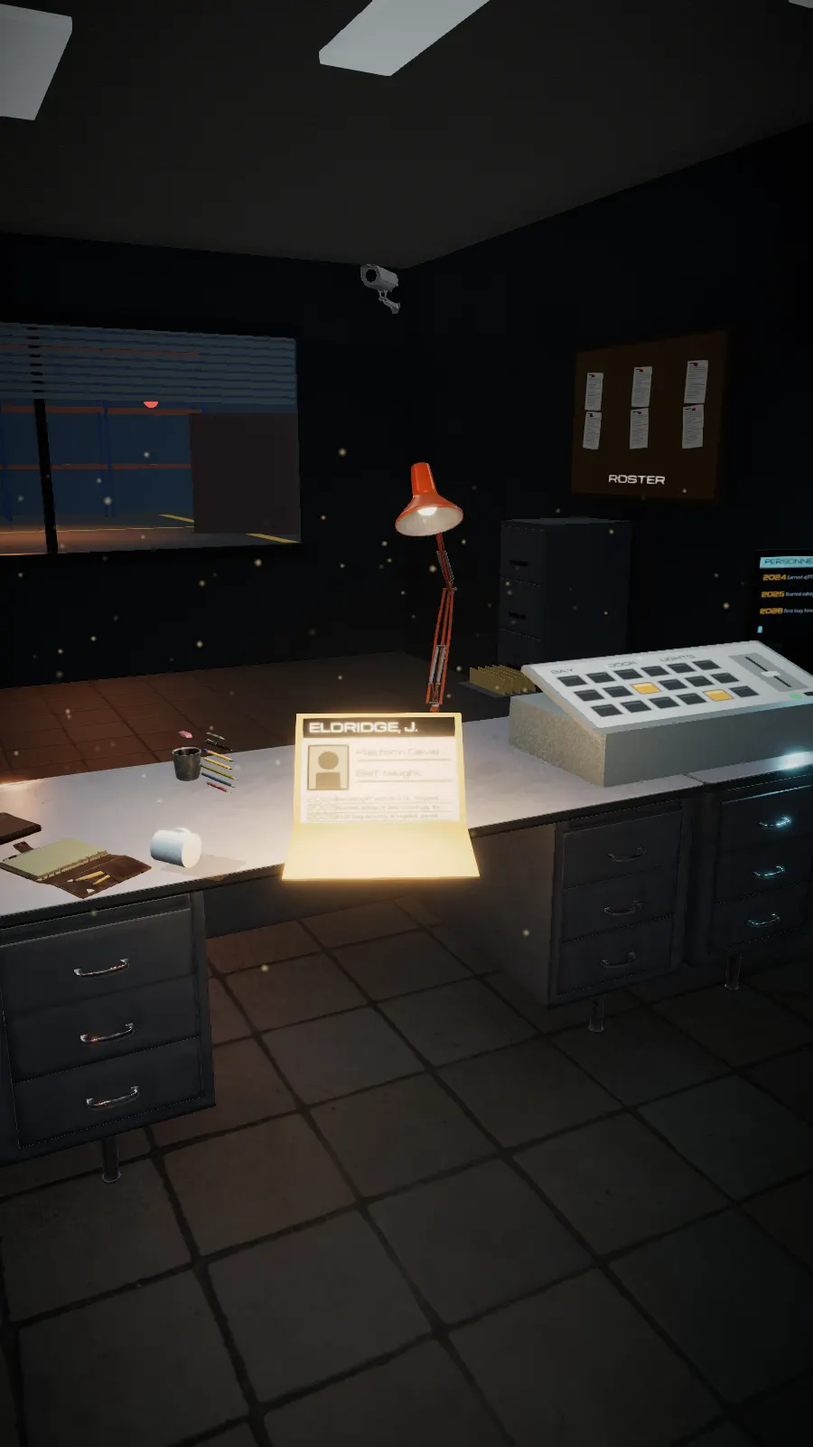
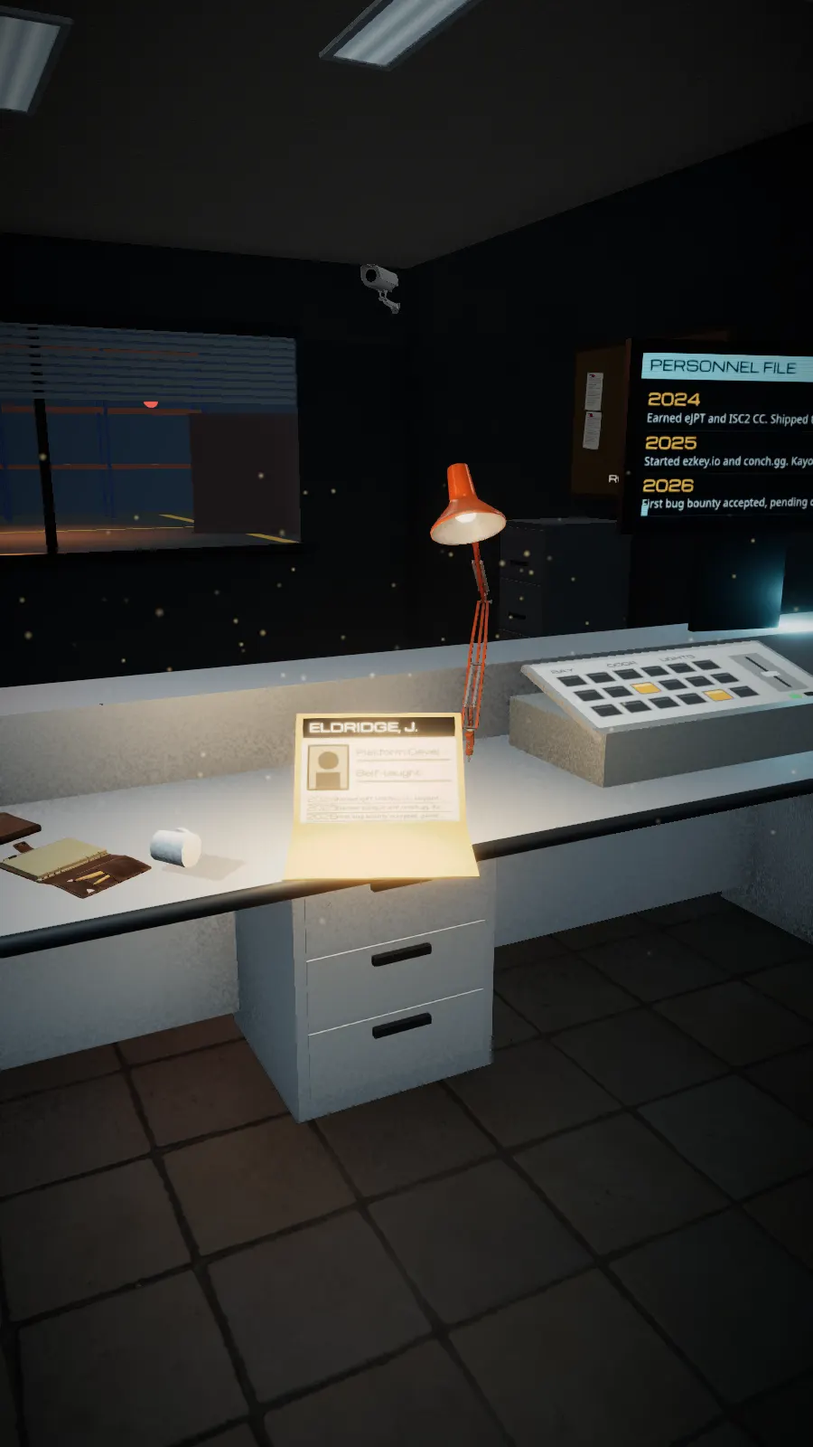
Pan the camera to the arcade row, and cut the board back to one number
The break room row is square to the wall on the exact piece of it the
camera parks in front of, with the kitchen moved along to the east end and
the drinks machines past it. The hold turns south to look straight at the
four cabinets rather than reading them side on, they stand against a dark
panel so a blue machine is not a blue machine on a blue wall, and a long
marquee name is condensed and then sized down until it fits, because
condensing alone still ran character bot off its own plate.

The shift board carries the count and the twelve weeks and nothing else.
The header is set to fit the plate instead of running off the end of it.

The clean room's theatre lamp hangs at the far end of the lab where it is a
lit table at the end of the room rather than a light in the eye, the drip
stand stands beside a trolley instead of out on the floor, and the two
Cisco plates hang on opposite sides at different depths.

Stills re-rendered for the lite path.

diff --git a/src/scenes/walk/stages/recreation/dressing.ts b/src/scenes/walk/stages/recreation/dressing.ts
@@ -6,7 +6,7 @@ import { arcadeCabinet, crtBracket, fridge, kitchenette, locker, poster, splashb
 import { battens } from '../../labs/fixtures';
 import { signBox } from '../../labs/signage';
 import { screenFace } from '../../labs/textures';
-import { Z0, Z1, CABINETS, CABINET_Z, ACCENT, HALL_FACE, FITTINGS } from './layout';
+import { Z0, Z1, CABINETS, CABINET_Z, ACCENT, HALL_FACE, FITTINGS, ROW_PANEL } from './layout';
 
 export interface Dressing { hotspots: Hotspot[]; header: THREE.MeshStandardMaterial }
 
@@ -39,35 +39,42 @@ export async function buildDressing(ctx: StageContext, root: THREE.Group): Promi
   // the same four positions `lighting.ts` puts its spots. One instanced pair for all four.
   await add(battens({ len: 1.6, drop: 0.08, intensity: 1.45 }, FITTINGS.map(([x, z]) => [x, 3.1, z])));
 
-  // ---- South wall, east to west: the kitchen ----------------------------------------------------
-  // Half a metre of counter end between the fridge and the units, because butted against them the
-  // two read as one white mass with a seam through it on the approach.
-  await add(place(fridge(), -25.45, 0, Z0 + 0.37));
-  await add(place(kitchenette(3.2), -28.0, 0, Z0 + 0.33));
-  await add(place(splashback(3.2, 0.62), -28.0, 1.19, Z0 + 0.05));
-  await add(once(prop('microwave'), -27.2, 0.905, Z0 + 0.33, 0.15));
-  await add(once(prop('kettle'), -29.4, 0.905, Z0 + 0.28, -0.4));
-  await add(once(prop('tea_set'), -29.0, 0.905, Z0 + 0.24, 0.9));
-  await add(place(poster('WASH YOUR HANDS', 0.44, 0.62, 5), -29.3, 1.6, Z0 + 0.06));
+  // ---- South wall, the east end: the kitchen ----------------------------------------------------
+  // The whole kitchen moved four metres east, to the first stretch of wall past the door, because
+  // the arcade row now takes the piece of wall the camera parks in front of. Walking in, the
+  // servery goes by on the right and the row is straight ahead.
+  await add(place(fridge(), -21.7, 0, Z0 + 0.37));
+  await add(place(kitchenette(3.2), -24.2, 0, Z0 + 0.33));
+  await add(place(splashback(3.2, 0.62), -24.2, 1.19, Z0 + 0.05));
+  await add(once(prop('microwave'), -23.4, 0.905, Z0 + 0.33, 0.15));
+  await add(once(prop('kettle'), -25.6, 0.905, Z0 + 0.28, -0.4));
+  await add(once(prop('tea_set'), -25.2, 0.905, Z0 + 0.24, 0.9));
+  await add(place(poster('WASH YOUR HANDS', 0.44, 0.62, 5), -25.5, 1.6, Z0 + 0.06));
   // The clock hangs over the counter, not on the far wall: it is the one thing that fills the bare
   // metre of wall between the cupboards and the ceiling on the side of the frame the copy leaves.
-  await add(once(prop('wall_clock'), -26.75, 2.3, Z0 + 0.07));
+  await add(once(prop('wall_clock'), -22.9, 2.3, Z0 + 0.07));
 
   // ---- South wall, the middle: the row the room is about ----------------------------------------
-  // The four cabinets stand nearest the hold, under their own batten and their own sign, and the
-  // drinks machines moved behind them. This is the whole of Jordan's note on the room: the machines
-  // were the big lit pair in the foreground and the projects were four small shapes behind them.
+  // The four cabinets stand square on the piece of wall the camera parks in front of, under their
+  // own batten and their own sign. The dark panel behind them is what gives a blue machine an edge
+  // against a blue dado, which was the note "blue blends into wall", and it reads as the painted
+  // back of a machine bay.
+  const panel = new THREE.Mesh(new THREE.BoxGeometry(ROW_PANEL.w, ROW_PANEL.h, 0.06), new THREE.MeshStandardMaterial({ color: 0x272e35, roughness: 0.85 }));
+  panel.position.set(ROW_PANEL.x, ROW_PANEL.h / 2, Z0 + 0.05); await add(panel);
+  const rail = new THREE.Mesh(new THREE.BoxGeometry(ROW_PANEL.w + 0.08, 0.05, 0.1), new THREE.MeshStandardMaterial({ color: 0x8e99a1, roughness: 0.45, metalness: 0.4 }));
+  rail.position.set(ROW_PANEL.x, ROW_PANEL.h + 0.02, Z0 + 0.07); await add(rail);
+
   const hotspots: Hotspot[] = [];
   for (const [key, title, x, accent, ry] of CABINETS) {
     const cabinet = place(arcadeCabinet({ title, accent, seed: x * -7 }), x, 0, CABINET_Z, ry);
     await add(cabinet);
     hotspots.push({ id: key, kind: 'project', label: title, object: cabinet, stop: 'recreation' });
-    if (key === 'torn-bet') anchors.set('torn-bet', new THREE.Vector3(-30.7, 2.15, Z0 + 1.0));
+    if (key === 'torn-bet') anchors.set('torn-bet', new THREE.Vector3(-26.66, 2.15, Z0 + 1.0));
   }
   // The sign over the row, on the wall above the marquees. A lit box at the head of an aisle is how
   // a building this size tells you what a corner of a room is for, and it is what makes the row the
   // thing you look at on the way in rather than the machines.
-  await add(place(signBox('ARCADE', { w: 1.7, h: 0.42, accent: 0x3d7be0, on: true, code: 'BREAK ROOM' }), -32.1, 2.32, Z0 + 0.1));
+  await add(place(signBox('ARCADE', { w: 1.7, h: 0.42, accent: 0x3d7be0, on: true, code: 'BREAK ROOM' }), -28.1, 2.28, Z0 + 0.13));
 
   // ---- South wall, west of the row: the drinks ---------------------------------------------------
   // The lit machine and its dead twin, past the cabinets, where they are the backdrop the row stands
@@ -75,12 +82,12 @@ export async function buildDressing(ctx: StageContext, root: THREE.Group): Promi
   const machine = vendingMachine({ accent: ACCENT, lit: true, seed: 11 });
   const header = machine.getObjectByName('header') as THREE.Mesh;
   const litHeader = header.material as THREE.MeshStandardMaterial;
-  await add(place(machine, -34.95, 0, Z0 + 0.42));
-  await add(place(vendingMachine({ accent: ACCENT, lit: false, seed: 5 }), -36.0, 0, Z0 + 0.42));
+  await add(place(machine, -30.95, 0, Z0 + 0.42));
+  await add(place(vendingMachine({ accent: ACCENT, lit: false, seed: 5 }), -32.0, 0, Z0 + 0.42));
 
   // The copy panel hangs east of the row, over the counter end, so it never covers the four cabinets
   // it is describing.
-  anchors.set('recreation', new THREE.Vector3(-27.4, 2.0, -33.6));
+  anchors.set('recreation', new THREE.Vector3(-25.4, 2.0, -33.9));
 
   // ---- North wall: the quiet side ---------------------------------------------------------------
   await add(place(statusBoard(prop('tv')), -29.6, 2.05, Z1 - 0.02, Math.PI));

diff --git a/src/scenes/walk/stages/fabrication/streak.ts b/src/scenes/walk/stages/fabrication/streak.ts
@@ -13,10 +13,11 @@ import streak from '../../../../content/streak.json';
  * public contribution calendar before every deploy. A day behind is fine. A build that fails because
  * github.com was slow is not, so the script keeps the last snapshot on any error.
  *
- * The count is the headline and the twelve week grid under it is the working. GitHub's own calendar
+ * The count is the headline and the twelve week grid beside it is the working. GitHub's own calendar
  * is a year of grey green squares that says nothing at a glance, which was the whole complaint, so
  * this one is a run of weeks in the building's own blues with the streak set eight times larger than
- * anything else on the board.
+ * anything else on the board. Nothing else goes on it: a longest run and a year total stood there
+ * for one build and both were cut.
  */
 
 const W = 1024, H = 620;
@@ -48,50 +49,40 @@ function draw(glow: boolean): THREE.CanvasTexture {
     for (let i = 0; i < 22; i++) ctx.fillRect(0, 150 + r() * 320, W, 1 + r() * 3);
   }
 
-  // The header band.
+  // The header band. Set to fit the board rather than to a fixed size: at 40 px the line ran off the
+  // end of the plate and the board said "DAYS WITHOUT A MISSED COMMI".
   if (!glow) {
     ctx.fillStyle = '#1f4f96'; ctx.fillRect(0, 0, W, 96);
     ctx.fillStyle = '#ffffff'; ctx.textBaseline = 'middle'; ctx.textAlign = 'left';
-    ctx.font = '600 40px Michroma, system-ui, sans-serif';
-    ctx.fillText('DAYS WITHOUT A MISSED COMMIT', 34, 52);
+    const title = 'DAYS WITHOUT A MISSED COMMIT';
+    let px = 42;
+    do { ctx.font = `600 ${px}px Michroma, system-ui, sans-serif`; px -= 1; } while (ctx.measureText(title).width > W - 68 && px > 18);
+    ctx.fillText(title, 34, 52);
   }
 
-  // The count, in a dark inset with a tile per digit, the way a flip board carries one.
-  const x0 = 34, y0 = 140, tw = 132, th = 210, gap = 14;
+  // The count, in a dark inset with a tile per digit, the way a flip board carries one. It is the
+  // only figure on the board. A longest run and a year total stood beside it for one build and
+  // Jordan cut both: the board answers one question.
+  const x0 = 40, y0 = 152, tw = 150, th = 244, gap = 16;
   digits.split('').forEach((d, i) => {
     const x = x0 + i * (tw + gap);
     if (!glow) {
       ctx.fillStyle = '#10171e'; ctx.fillRect(x, y0, tw, th);
       ctx.fillStyle = 'rgba(255,255,255,0.06)'; ctx.fillRect(x, y0 + th / 2 - 1, tw, 2);
     }
-    ctx.fillStyle = glow ? AMBER : AMBER;
+    ctx.fillStyle = AMBER;
     ctx.textAlign = 'center'; ctx.textBaseline = 'middle';
-    ctx.font = '600 150px Michroma, system-ui, sans-serif';
-    ctx.fillText(d, x + tw / 2, y0 + th / 2 + 6);
+    ctx.font = '600 172px Michroma, system-ui, sans-serif';
+    ctx.fillText(d, x + tw / 2, y0 + th / 2 + 8);
   });
   if (!glow) {
     ctx.textAlign = 'left'; ctx.fillStyle = INK;
-    ctx.font = '600 26px Michroma, system-ui, sans-serif';
-    ctx.fillText('CURRENT RUN', x0, y0 + th + 36);
+    ctx.font = '600 28px Michroma, system-ui, sans-serif';
+    ctx.fillText('CURRENT RUN', x0, y0 + th + 40);
   }
 
-  // The two standing figures, and the grid of the last twelve weeks under them.
-  const rx = 520;
-  if (!glow) {
-    ctx.textAlign = 'left'; ctx.textBaseline = 'middle';
-    const row = (label: string, value: string, y: number) => {
-      ctx.fillStyle = '#5b6770'; ctx.font = '600 21px Michroma, system-ui, sans-serif';
-      ctx.fillText(label, rx, y);
-      ctx.fillStyle = INK; ctx.font = '600 38px Michroma, system-ui, sans-serif';
-      ctx.textAlign = 'right'; ctx.fillText(value, W - 34, y);
-      ctx.textAlign = 'left';
-      ctx.fillStyle = 'rgba(27,37,48,0.18)'; ctx.fillRect(rx, y + 32, W - 34 - rx, 2);
-    };
-    row('LONGEST RUN', String(streak.longest), 150);
-    row('THIS YEAR', streak.yearTotal.toLocaleString('en-GB'), 236);
-  }
-
-  const cell = 26, pitch = 32, gx = rx, gy = 300;
+  // The working: the last twelve weeks, one cell a day, a column a week.
+  const gx = 566, gy = 152, pitch = 36, cell = 30;
   const levels = String(streak.recent);
   for (let col = 0; col < 12; col++) {
     for (let rowN = 0; rowN < 7; rowN++) {
@@ -99,8 +90,7 @@ function draw(glow: boolean): THREE.CanvasTexture {
       const x = gx + col * pitch, y = gy + rowN * pitch;
       if (glow) {
         if (level === 0) continue;
-        const k = 0.18 + level * 0.2;
-        ctx.fillStyle = `rgba(120,170,235,${k.toFixed(2)})`;
+        ctx.fillStyle = `rgba(120,170,235,${(0.18 + level * 0.2).toFixed(2)})`;
       } else {
         ctx.fillStyle = LEVELS[Math.min(4, level)]!;
       }
@@ -108,8 +98,8 @@ function draw(glow: boolean): THREE.CanvasTexture {
     }
   }
   if (!glow) {
-    ctx.fillStyle = '#5b6770'; ctx.font = '600 22px Michroma, system-ui, sans-serif';
-    ctx.textAlign = 'left'; ctx.fillText('LAST TWELVE WEEKS', gx, gy + 7 * pitch + 22);
+    ctx.fillStyle = '#5b6770'; ctx.font = '600 24px Michroma, system-ui, sans-serif';
+    ctx.textAlign = 'left'; ctx.fillText('LAST TWELVE WEEKS', gx, gy + 7 * pitch + 26);
     ctx.fillStyle = 'rgba(27,37,48,0.55)'; ctx.font = '600 20px Michroma, system-ui, sans-serif';
     ctx.fillText(`READ ${streak.generated}`, x0, H - 34);
     ctx.textAlign = 'right'; ctx.fillText(`GITHUB.COM/${String(streak.login).toUpperCase()}`, W - 34, H - 34);

diff --git a/src/scenes/walk/stages/credentials/dressing.ts b/src/scenes/walk/stages/credentials/dressing.ts
@@ -222,12 +222,12 @@ function theatreLamp(): THREE.Group {
   ];
   g.add(merged(body, steel));
   const face = new THREE.Mesh(new THREE.CircleGeometry(0.4, 24), new THREE.MeshStandardMaterial({
-    color: 0xffffff, emissive: 0xf3f9ff, emissiveIntensity: 0.85, roughness: 0.3,
+    color: 0xffffff, emissive: 0xf3f9ff, emissiveIntensity: 0.6, roughness: 0.3,
   }));
   face.rotation.x = Math.PI / 2; face.position.y = -drop - 0.04; g.add(face);
   const cells: Spot[] = [];
   for (let i = 0; i < 6; i++) cells.push([Math.cos((i / 6) * Math.PI * 2) * 0.22, -drop - 0.05, Math.sin((i / 6) * Math.PI * 2) * 0.22]);
-  g.add(instances(new THREE.SphereGeometry(0.045, 8, 6), new THREE.MeshStandardMaterial({ color: 0xffffff, emissive: 0xffffff, emissiveIntensity: 1.4 }), cells));
+  g.add(instances(new THREE.SphereGeometry(0.045, 8, 6), new THREE.MeshStandardMaterial({ color: 0xffffff, emissive: 0xffffff, emissiveIntensity: 1.1 }), cells));
   return g;
 }
 
@@ -264,7 +264,11 @@ export async function buildDressing(ctx: StageContext, root: THREE.Group): Promi
   // Each plate is a lightbox, not a lamp: the acrylic carries just enough glow to separate it from
   // the white room, the band across its head is the Labs blue, and the ink is dark.
   const loader = new THREE.TextureLoader();
-  const certList = certs as { id: string; name: string; issuer: string; badgeImage: string }[];
+  // The order the six hang in, by their index in certs.json. Down the file the two Cisco plates are
+  // next to each other, and hung in that order the aisle showed "CCNA" beside "CCNA Cybersecurity",
+  // which Jordan read as the same plate twice. This puts them on opposite sides at different depths.
+  const ORDER = [0, 2, 4, 3, 1, 5];
+  const certList = ORDER.map((n) => (certs as { id: string; name: string; issuer: string; badgeImage: string }[])[n]!);
   certList.forEach((c, i) => {
     const side = i < 3 ? 'west' : 'east'; const z = PLATE_Z[side][i % 3]; const x = PLATE_X[side];
     // One group per plate so the pointer can pick a single certification, built facing +z in its own
@@ -289,17 +293,23 @@ export async function buildDressing(ctx: StageContext, root: THREE.Group): Promi
   // the lab's centre line, where `cameraAt` puts the walk within 0.1 m of it, and a metre south of
   // where it first stood so its sheet stays under the near plate's frame at the hold.
   await add(place(sheetedTrolley(), -81.4, 0, -20.4, Math.PI + 0.15));
-  // The theatre lamp over it, on its pendant from the lab ceiling, with the room's second point
-  // light in the dish. Jordan's read of the room was that it is "like a room surgeries are performed
-  // in", which is the right instinct for a white glass box with a draped trolley in the middle of
-  // it, and one fitting says it outright.
+  // The theatre lamp, on its pendant from the lab ceiling, with the room's second point light in the
+  // dish. Jordan's read of the room was that it is "like a room surgeries are performed in", which
+  // is the right instinct for a white glass box with a draped trolley in it, and one fitting says it
+  // outright. It hangs over the far trolley on the east side rather than over the near one: two
+  // metres ahead of where the camera parks and a foot over the eye line it was "light too in the
+  // face", and a lamp you are standing under is not a lamp you can see. At the north end of the lab
+  // it stands past the last pair of plates, framed in the gap between the two rows, and what the
+  // hold reads is a lit table at the end of the room.
   const lamp = theatreLamp();
-  lamp.position.set(-81.2, LAB.h, -19.7); await add(lamp);
+  lamp.position.set(-77.4, LAB.h, -13.0); await add(lamp);
   // The flight cases that stood on the floor are gone. Three road cases, one of them orange, are
   // load out kit in a room that is otherwise sterile: "boxes feel kinda out of place". A second
   // draped trolley and a drip stand belong to the room the lamp is over.
-  await add(place(sheetedTrolley(), -78.2, 0, -16.4, -0.4));
-  await add(place(dripStand(), -80.1, 0, -16.8, 0.6));
+  await add(place(sheetedTrolley(), -77.4, 0, -13.2, -0.4));
+  // The stand belongs beside a table, not on its own out in the middle of the floor, which is what
+  // "senter prop a bit weird" is about.
+  await add(place(dripStand(), -82.3, 0, -19.5, 0.6));
 
   // The bench: 2.2 m along the east glass, south of the east plates so nothing stands under them,
   // its top 0.9 up. The microscope and the chemistry set on it, the medical box at its end, and the

diff --git a/src/scenes/walk/stages/recreation/layout.ts b/src/scenes/walk/stages/recreation/layout.ts
@@ -45,22 +45,27 @@ export const TILE = 0.6;
 export const LIT = (i: number, j: number) => i % 8 === 3 && j % 5 === 2;
 export const PANEL: [number, number] = [1.2, 0.28];
 
-/** The row: four cabinets standing where the drinks machines used to, which is the nearest stretch
- *  of the served wall to the hold and the only place they are the thing the eye lands on. With the
- *  machines in front of them they were the smaller, further pair of objects in their own frame, and
- *  Jordan read the room as being about the drinks twice.
+/**
+ * The row: four cabinets square to the wall, centred on the exact point the camera parks at for
+ * this stop. `travelParam` freezes the camera at t 0.4 for the whole hold, which puts it at
+ * (-28.09, -31.05), so a row built about x -28.1 on the south wall is looked at straight on.
  *
- *  Each carries its own turn out of the wall, rising down the row, so all four marquees face the
- *  hold rather than only the nearest one. The last cabinet is the one he could not read, and it is
- *  the one turned furthest. The turn swings a back corner toward the wall, so the row stands a
- *  little further off it than a square row would need. */
-export const CABINET_Z = Z0 + 0.52;
+ * They were turned out of the wall a little more each, so that an oblique camera saw four faces.
+ * Jordan's read of that was "the angle doesnt make sense. pan the camera to it dont tilt the cabs",
+ * which is right: cabinets stand against a wall, and it is the camera's job to go and look at them.
+ * So the turn is gone and the hold's aim in `path.ts` swings south to the row instead.
+ */
+export const CABINET_Z = Z0 + 0.45;
 export const CABINETS: [string, string, number, string, number][] = [
-  ['torn-bet', 'torn.bet', -30.70, '#3D7BE0', 0.26],
-  ['faction-tools', 'faction.tools', -31.66, '#E8B923', 0.36],
-  ['kayou-bot', 'Kayou', -32.62, '#D7383A', 0.47],
-  ['character-bot', 'character bot', -33.58, '#3FD47A', 0.58],
+  ['torn-bet', 'torn.bet', -26.66, '#3D7BE0', 0],
+  ['faction-tools', 'faction.tools', -27.62, '#E8B923', 0],
+  ['kayou-bot', 'Kayou', -28.58, '#D7383A', 0],
+  ['character-bot', 'character bot', -29.54, '#3FD47A', 0],
 ];
+/** The dark panel the row stands against: the dado's blue runs behind the cabinets otherwise, and a
+ *  blue machine on a blue wall has no edge. `[x, width, height]`. */
+export const ROW_PANEL = { x: -28.1, w: 4.6, h: 2.5 };
+
 export const ACCENT = '#3D7BE0';
 
 /** Where the room's four spots hang, and where the dressing hangs a batten so each of them has a
@@ -68,7 +73,7 @@ export const ACCENT = '#3D7BE0';
  *  last two stand further out over the lounge. `[x, z]`, and the fitting sits at y 3.1 under the
  *  3.2 m ceiling. Kept here because `lighting.ts` and `dressing.ts` have to agree on them exactly,
  *  which is the whole of the note that a light did not line up with anything. */
-export const FITTINGS: [number, number][] = [[-28.2, -33.4], [-32.1, -33.4], [-41.0, -32.0], [-48.5, -32.0]];
+export const FITTINGS: [number, number][] = [[-23.8, -33.4], [-28.1, -32.6], [-41.0, -32.0], [-48.5, -32.0]];
 
 /**
  * The east landing: the elbow behind the bay's exit. The walk leaves the bay southward through the

diff --git a/src/scenes/walk/stages/recreation/lighting.ts b/src/scenes/walk/stages/recreation/lighting.ts
@@ -18,13 +18,14 @@ export function lights(): Placement[] {
   const [kitchen, row, lounge, west] = FITTINGS;
   return [
     { kind: 'spot', position: [kitchen[0], 3.02, kitchen[1]], target: [kitchen[0], 0.95, kitchen[1] - 0.9], intensity: 32, distance: 16, ...room },
-    // The row is the brightest thing in the room, which is how the eye is told where to look. Its
-    // cone is the narrow one: at the room's own angle it washed the wall to the ceiling and took the
-    // sign over the cabinets with it, and a lit sign in a hot pool of light is a white rectangle.
-    { kind: 'spot', position: [row[0], 3.02, row[1]], target: [row[0] - 0.25, 0.85, row[1] - 0.95], intensity: 56, distance: 16, ...room, angle: Math.PI / 3.4 },
+    // The row's own fitting stands nearly two metres off the wall and throws into the cabinet faces
+    // rather than down the wall behind them. Hung tight to the wall with a wide cone it washed the
+    // panel to the ceiling and blew the sign on it to a white rectangle, and it was doing very
+    // little for the cabinets themselves, which are vertical and take almost nothing off a ceiling.
+    { kind: 'spot', position: [row[0], 3.02, row[1]], target: [row[0], 1.25, row[1] - 1.2], intensity: 44, distance: 16, ...room, angle: Math.PI / 4 },
     { kind: 'spot', position: [lounge[0], 3.02, lounge[1]], target: [lounge[0] - 0.4, 0, lounge[1] - 1.4], intensity: 52, distance: 18, ...room },
     { kind: 'spot', position: [west[0], 3.02, west[1]], target: [west[0] - 0.5, 0, west[1] - 1.2], intensity: 62, distance: 22, ...room },
-    { kind: 'point', position: [-34.95, 1.2, Z0 + 0.7], color: 0x3d7be0, intensity: 5, distance: 5, decay: 2 },
-    { kind: 'point', position: [-32.1, 1.85, Z0 + 1.2], color: 0x3d7be0, intensity: 5, distance: 4.5, decay: 2 },
+    { kind: 'point', position: [-30.95, 1.2, Z0 + 0.7], color: 0x3d7be0, intensity: 3.4, distance: 4.5, decay: 2 },
+    { kind: 'point', position: [-28.1, 1.85, Z0 + 1.2], color: 0x3d7be0, intensity: 5, distance: 4.5, decay: 2 },
   ];
 }

diff --git a/src/scenes/walk/labs/furniture.ts b/src/scenes/walk/labs/furniture.ts
@@ -323,10 +323,14 @@ export function marqueeFace(title: string, accent = '#3D7BE0'): THREE.CanvasText
   // "character bot" to fit at full size dropped it to about half the cap height of the short ones
   // and it could not be read at the hold at all. Squeezing the x axis keeps the letters as tall as
   // every other marquee, which is what carries at four metres.
-  const px = 64;
-  ctx.font = `600 ${px}px Michroma, system-ui, sans-serif`;
-  const wide = ctx.measureText(title).width;
-  const squeeze = wide > 460 ? Math.max(0.55, 460 / wide) : 1;
+  let px = 64;
+  const set = () => { ctx.font = `600 ${px}px Michroma, system-ui, sans-serif`; return ctx.measureText(title).width; };
+  let wide = set();
+  // Condense first, down to a floor where the letters are still a face and not a comb, then take
+  // the size down until what is left fits. Condensing alone left "character bot" 35 px wider than
+  // its own plate and the marquee read "character b".
+  const squeeze = wide > 460 ? Math.max(0.62, 460 / wide) : 1;
+  while (wide * squeeze > 460 && px > 22) { px -= 2; wide = set(); }
   ctx.save();
   ctx.translate(256, 76); ctx.scale(squeeze, 1);
   ctx.fillText(title, 0, 0);

diff --git a/src/scenes/walk/path.ts b/src/scenes/walk/path.ts
@@ -25,7 +25,10 @@ export const STOPS: Stop[] = [
   // The fabrication hold is inside the dispatch office. The camera turns west to the three exhibits
   // along its glass.
   { id: 'fabrication', t: 0.2, enter: 0.105, hold: [0.17, 0.25], lookAt: [-7, 1.5, -11], wing: 'fabrication', light: '#E0813A' },
-  { id: 'recreation', t: 0.4, enter: 0.332, hold: [0.37, 0.44], lookAt: [-32.1, 1.4, -34.7], wing: 'recreation', light: '#3D7BE0' },
+  // The break room hold turns south to the arcade row rather than west down the corridor. The
+  // camera parks at (-28.09, -31.05) for the whole hold and the row is built about that x, so this
+  // aim is square to the four cabinets: "pan the camera to it dont tilt the cabs".
+  { id: 'recreation', t: 0.4, enter: 0.332, hold: [0.37, 0.44], lookAt: [-28.1, 1.45, -34.6], wing: 'recreation', light: '#3D7BE0' },
   { id: 'operations', t: 0.56, enter: 0.52, hold: [0.53, 0.6], lookAt: [-72, 1.6, -33], wing: 'operations', light: '#CFE6EE' },
   // The credentials hold stands inside the glass lab and looks north up it, so the three plates on
   // each side of the aisle are both in frame. Looking west put one wall in shot and the other three

diff --git a/src/scenes/walk/stages/recreation/shell.ts b/src/scenes/walk/stages/recreation/shell.ts
@@ -34,7 +34,7 @@ export function buildShell({ store }: StageContext, root: THREE.Group): Shell {
   const grid = { tile: TILE, lit: LIT, panel: PANEL, intensity: 1.25, tint: 0xd6e0e6, tileGlow: 0.6 };
   // Two panels come out of the batch so the room can drive them: one over the arcade row, one over
   // the drinks machines, whose lit header shares the second one's fault.
-  const flickerIndex = [[-32.1, -33.4], [-35.0, -33.4]].map(([x, z]) => nearestLitPanel(ROOM_W, D, x - ROOM_XC, z - ZC, grid));
+  const flickerIndex = [[-28.1, -33.4], [-31.0, -33.4]].map(([x, z]) => nearestLitPanel(ROOM_W, D, x - ROOM_XC, z - ZC, grid));
   const room = ceilingGrid(store, ROOM_W, D, ROOM.ceiling, { ...grid, flickerIndex });
   if (room.flicker.length !== 2) throw new Error('recreation: the ceiling did not give up two panels to flicker');
   room.group.position.set(ROOM_XC, 0, ZC); root.add(room.group);

diff --git a/src/scenes/walk/stages/recreation/index.ts b/src/scenes/walk/stages/recreation/index.ts
@@ -22,7 +22,7 @@ async function build(ctx: StageContext): Promise<Stage> {
   // the room. Both are one draw call each and move in the shader.
   const fx: ParticleSystem[] = [
     // Normal blended and a shade under the tiles: additive white on a white splashback was invisible.
-    plume([-29.35, 1.16, Z0 + 0.34], { count: 30, life: 2.6, rise: 0.95, spread: 0.24, size: 0.32, color: 0x94a6b2, opacity: 0.55 }),
+    plume([-25.55, 1.16, Z0 + 0.34], { count: 30, life: 2.6, rise: 0.95, spread: 0.24, size: 0.32, color: 0x94a6b2, opacity: 0.55 }),
     dust([ROOM.x0 + 1, 0.4, Z0 + 0.5], [ROOM.x1 - 1, 3.0, Z1 - 0.5], tier === 'high' ? 360 : 140, { size: 0.04, opacity: 0.28, color: 0xe6eef2 }),
   ];
   for (const p of fx) root.add(p.points);

diff --git a/src/scenes/walk/stages/credentials/lighting.ts b/src/scenes/walk/stages/credentials/lighting.ts
@@ -16,7 +16,7 @@ export function lights(): Placement[] {
     { kind: 'point', position: [LAB.x + LAB_PANEL.x[0], LAB.h - 0.15, LAB.z + LAB_PANEL.z[1]], color: 0xdff0f6, intensity: 5, distance: 10, decay: 1.5 },
     // The second lab point moved out of the ceiling and into the theatre lamp's dish over the draped
     // trolley, which is the one fitting in the room that is meant to be pooling light on something.
-    { kind: 'point', position: [-81.2, LAB.h - 1.0, -19.7], color: 0xf3f9ff, intensity: 7, distance: 7, decay: 1.7 },
+    { kind: 'point', position: [-77.4, LAB.h - 1.0, -13.0], color: 0xf3f9ff, intensity: 6, distance: 6.5, decay: 1.7 },
     spot(BATTEN_Z[0]),
     spot(BATTEN_Z[2]),
   ];
